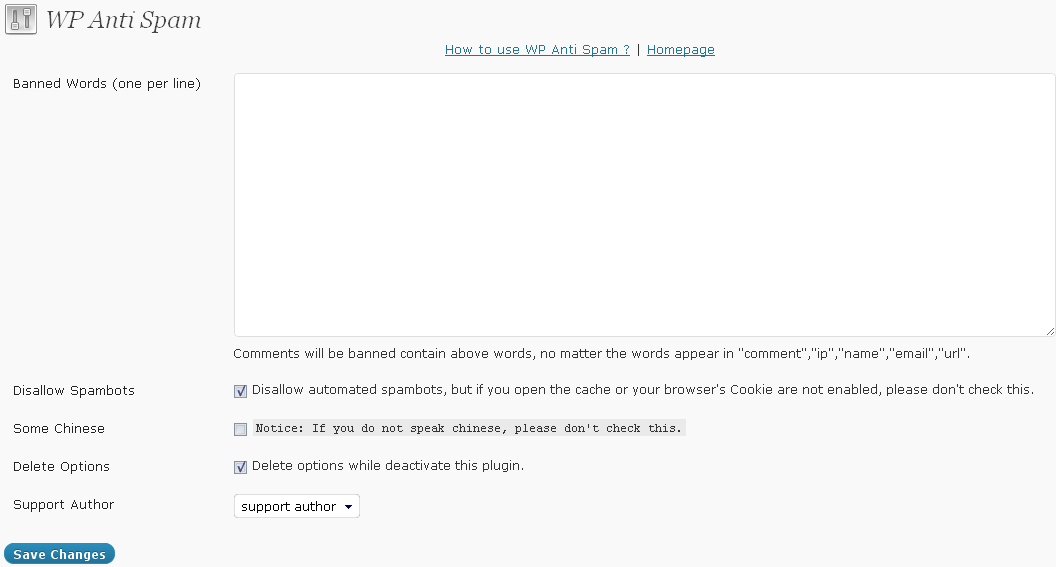
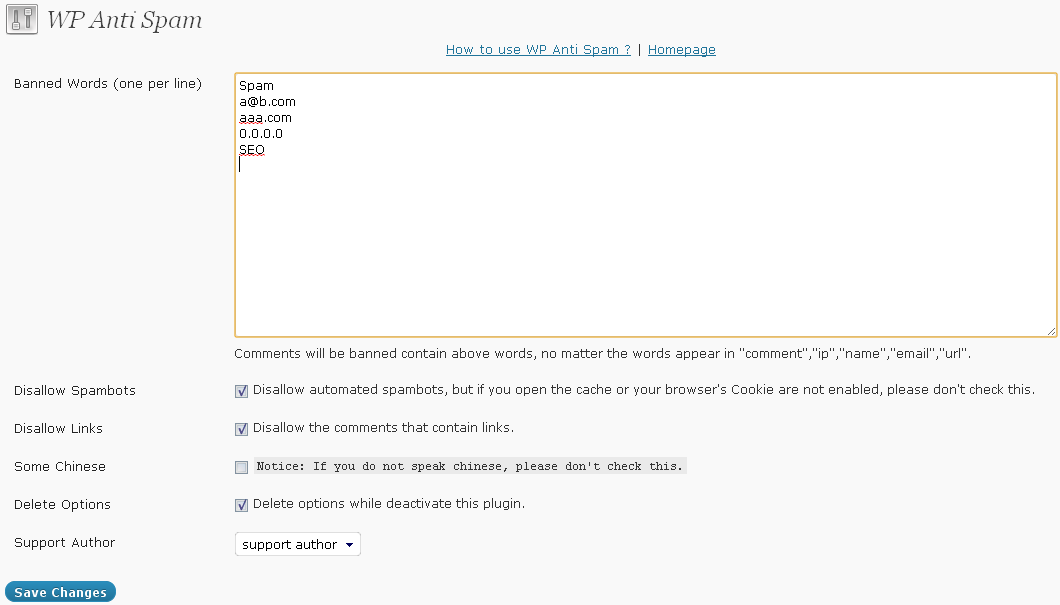
version 1.2.2

diff --git a/wp_anti_spam_admin.php b/wp_anti_spam_admin.php
@@ -4,6 +4,7 @@ function wp_anti_spam_admin() {
 }
 function wp_anti_spam_options(){
 	add_option('wp_anti_spam_spambots','yes');
+	add_option('wp_anti_spam_links','yes');
 	add_option('wp_anti_spam_deactivate','yes');
 ?>
 <div class="wrap">
@@ -35,6 +36,17 @@ function wp_anti_spam_options(){
 			<label>
 				<input type="checkbox" name="wp_anti_spam_spambots" value="yes" <?php if(get_option("wp_anti_spam_spambots")=='yes') echo 'checked="checked"'; ?> />
 				<?php _e("Disallow automated spambots, but if you open the cache or your browser's Cookie are not enabled, please don't check this.",'WP-Anti-Spam'); ?>
+			</label>
+		</td>
+	</tr>
+	<tr valign="top">
+		<th scope="row">
+			<?php _e('Disallow Links','WP-Anti-Spam'); ?>
+		</th>
+		<td>
+			<label>
+				<input type="checkbox" name="wp_anti_spam_links" value="yes" <?php if(get_option("wp_anti_spam_links")=='yes') echo 'checked="checked"'; ?> />
+				<?php _e("Disallow the comments that contain links.",'WP-Anti-Spam'); ?>
 			</label>
 		</td>
 	</tr>
@@ -74,7 +86,7 @@ function wp_anti_spam_options(){
 </table>
 
 <input type="hidden" name="action" value="update" />
-<input type="hidden" name="page_options" value="wp_anti_spam_words,wp_anti_spam_spambots,wp_anti_spam_cn_must,wp_anti_spam_deactivate,wp_anti_spam_support" />
+<input type="hidden" name="page_options" value="wp_anti_spam_words,wp_anti_spam_spambots,wp_anti_spam_links,wp_anti_spam_cn_must,wp_anti_spam_deactivate,wp_anti_spam_support" />
 
 <p class="submit">
 <input type="submit" class="button-primary" name="Submit" value="<?php _e('Save Changes'); ?>" />

diff --git a/wp-anti-spam.php b/wp-anti-spam.php
@@ -3,7 +3,7 @@
 Plugin Name: WP Anti Spam
 Plugin URI: http://boliquan.com/wp-anti-spam/
 Description: WP Anti Spam can anti automated spambots, it can also anti artificial spams by"comment","ip","name","email","url". If you speak chinese, you can check 'Some Chinese' to anti the spams from other languages. Besides,it can delete its own options, so it is a green plugin ! 
-Version: 1.2.1
+Version: 1.2.2
 Author: BoLiQuan
 Author URI: http://boliquan.com/
 Text Domain: WP-Anti-Spam
@@ -40,9 +40,16 @@ function wp_anti_spam($comment_data){
 		wp_die(__('Error: Your IP has been banned to leave comments.','WP-Anti-Spam').WASINFO);
 	}
 
+	if(get_option("wp_anti_spam_links")=='yes'){
+		$links = '/href=|http:\/\/|<\/a>/u';
+		if(preg_match($links, $comment_data['comment_content'])){
+			wp_die(__('Error: Links are not allowed in comments.','WP-Anti-Spam').WASINFO);
+		}
+	}
+
 	if(get_option("wp_anti_spam_cn_must")=='yes'){
 		$cn_char = '/[一-龥]/u';
-		if(!preg_match($cn_char, $comment_data['comment_content'])) {
+		if(!preg_match($cn_char, $comment_data['comment_content'])){
 			wp_die(__('Error: Comments must contain Chinese.','WP-Anti-Spam').WASINFO);
 		}
 	}
